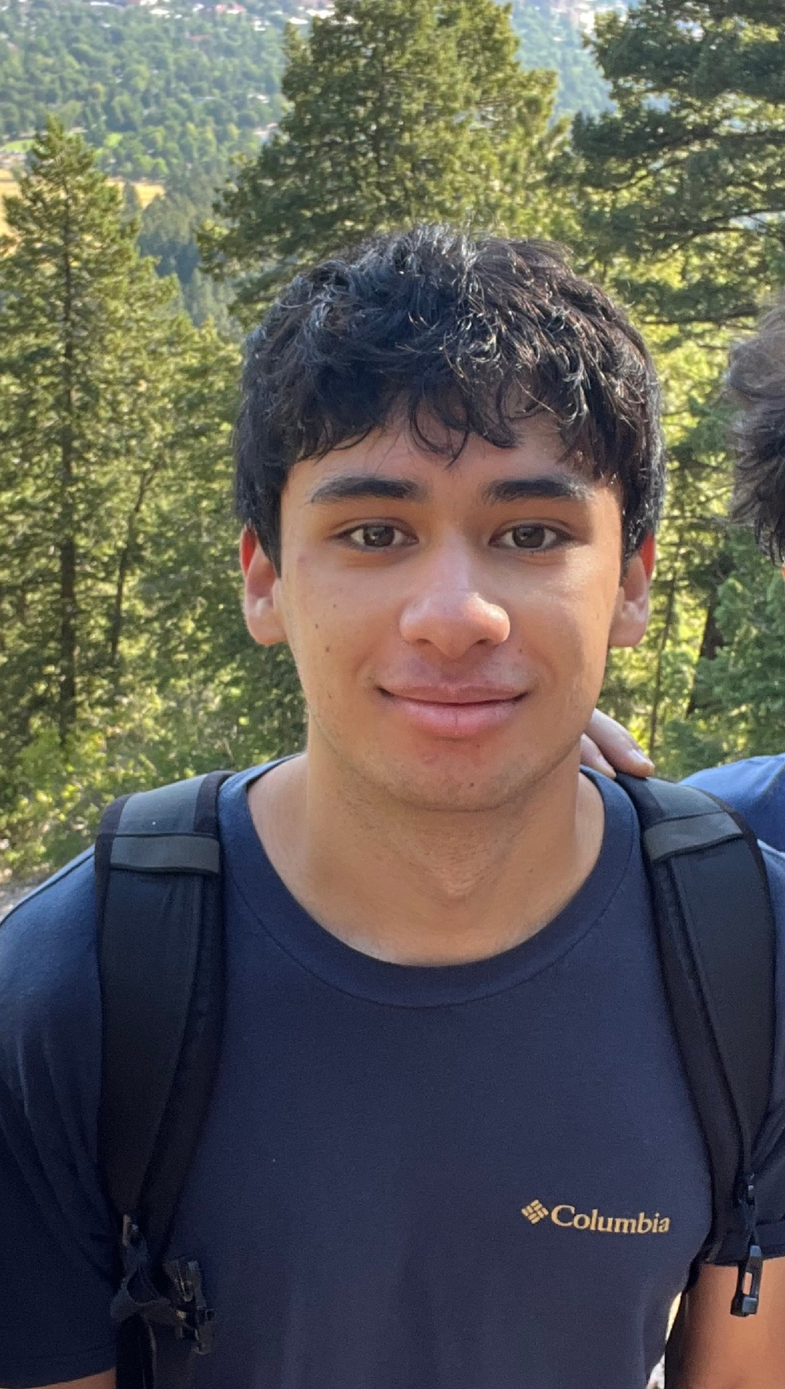
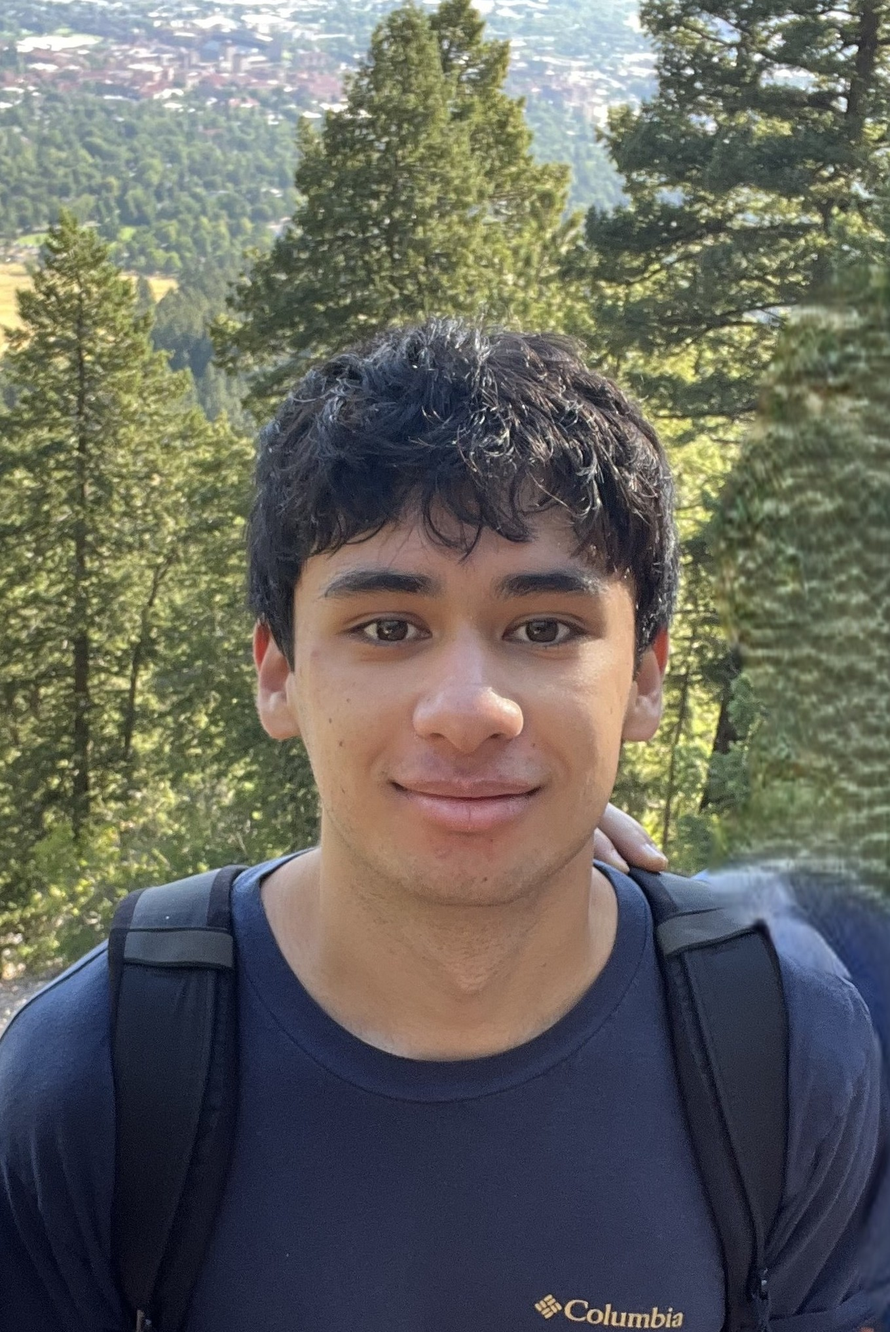
Added Eddie and Andre photos, and Eddie bio

diff --git a/categories.html b/categories.html
@@ -296,7 +296,7 @@
 
                     <div class="person-card">
                         <div class="person-card-header" data-target="modal1-andre-response">
-                            <div class="person-card-rect"style="background-image: url('person-andre.png');"></div>
+                            <div class="person-card-rect"style="background-image: url('assets/andre-photo.png');"></div>
                             <p class="person-name">Andre</p> 
                         </div>
                         
@@ -307,7 +307,7 @@
                     </div>
                     <div class="person-card">
                         <div class="person-card-header" data-target="modal1-jared-response">
-                            <div class="person-card-rect"></div>
+                            <div class="person-card-rect"style="background-image: url('assets/jared-photo.jpeg');"></div>
                             <p class="person-name">Jared</p> 
                         </div>
                         
@@ -318,7 +318,7 @@
                     </div>
                     <div class="person-card">
                         <div class="person-card-header" data-target="modal1-eddie-response">
-                            <div class="person-card-rect"style="background-image: url('person-eddie.png');"></div>
+                            <div class="person-card-rect"style="background-image: url('assets/eddie-photo.jpg');"></div>
                             <p class="person-name">Eddie</p> 
                         </div>
                         
@@ -362,7 +362,7 @@
 
                     <div class="person-card">
                         <div class="person-card-header" data-target="modal2-andre-response">
-                            <div class="person-card-rect"style="background-image: url('person-andre.png');"></div>
+                            <div class="person-card-rect"style="background-image: url('assets/andre-photo.png');"></div>
                             <p class="person-name">Andre</p> 
                         </div>
                         
@@ -373,7 +373,7 @@
                     </div>
                     <div class="person-card">
                         <div class="person-card-header" data-target="modal2-jared-response">
-                            <div class="person-card-rect"style="background-image: url('person-jared.png');"></div>
+                            <div class="person-card-rect"style="background-image: url('assets/jared-photo.jpeg');"></div>
                             <p class="person-name">Jared</p> 
                         </div>
                         
@@ -384,7 +384,7 @@
                     </div>
                     <div class="person-card">
                         <div class="person-card-header" data-target="modal2-eddie-response">
-                            <div class="person-card-rect"style="background-image: url('person-eddie.png');"></div>
+                            <div class="person-card-rect"style="background-image: url('assets/eddie-photo.jpg');"></div>
                             <p class="person-name">Eddie</p> 
                         </div>
                         
@@ -428,7 +428,7 @@
 
                     <div class="person-card">
                         <div class="person-card-header" data-target="modal3-andre-response">
-                            <div class="person-card-rect" style="background-image: url('person-andre.png');"></div>
+                            <div class="person-card-rect" style="background-image: url('assets/andre-photo.png');"></div>
                             <p class="person-name">Andre</p> 
                         </div>
                         
@@ -439,7 +439,7 @@
                     </div>
                     <div class="person-card">
                         <div class="person-card-header" data-target="modal3-jared-response">
-                            <div class="person-card-rect" style="background-image: url('person-jared.png');"></div>
+                            <div class="person-card-rect" style="background-image: url('assets/jared-photo.jpeg');"></div>
                             <p class="person-name">Jared</p> 
                         </div>
                         
@@ -450,7 +450,7 @@
                     </div>
                     <div class="person-card">
                         <div class="person-card-header" data-target="modal3-eddie-response">
-                            <div class="person-card-rect" style="background-image: url('person-eddie.png');"></div>
+                            <div class="person-card-rect" style="background-image: url('assets/eddie-photo.jpg');"></div>
                             <p class="person-name">Eddie</p> 
                         </div>
                         
@@ -495,7 +495,7 @@
 
                     <div class="person-card">
                         <div class="person-card-header" data-target="modal4-andre-response">
-                            <div class="person-card-rect" style="background-image: url('person-andre.png');"></div>
+                            <div class="person-card-rect" style="background-image: url('assets/andre-photo.png');"></div>
                             <p class="person-name">Andre</p> 
                         </div>
                         
@@ -517,7 +517,7 @@
                     </div>
                     <div class="person-card">
                         <div class="person-card-header" data-target="modal4-eddie-response">
-                            <div class="person-card-rect" style="background-image: url('person-eddie.png');"></div>
+                            <div class="person-card-rect" style="background-image: url('assets/eddie-photo.jpg');"></div>
                             <p class="person-name">Eddie</p> 
                         </div>
                         
@@ -561,7 +561,7 @@
 
                     <div class="person-card">
                         <div class="person-card-header" data-target="modal5-andre-response">
-                            <div class="person-card-rect" style="background-image: url('person-andre.png');"></div>
+                            <div class="person-card-rect" style="background-image: url('assets/andre-photo.png');"></div>
                             <p class="person-name">Andre</p> 
                         </div>
                         
@@ -572,7 +572,7 @@
                     </div>
                     <div class="person-card">
                         <div class="person-card-header" data-target="modal5-jared-response">
-                            <div class="person-card-rect" style="background-image: url('person-jared.png');"></div>
+                            <div class="person-card-rect" style="background-image: url('assets/jared-photo.jpeg');"></div>
                             <p class="person-name">Jared</p> 
                         </div>
                         
@@ -583,7 +583,7 @@
                     </div>
                     <div class="person-card">
                         <div class="person-card-header" data-target="modal5-eddie-response">
-                            <div class="person-card-rect" style="background-image: url('person-eddie.png');"></div>
+                            <div class="person-card-rect" style="background-image: url('assets/eddie-photo.jpg');"></div>
                             <p class="person-name">Eddie</p> 
                         </div>
                         
@@ -629,7 +629,7 @@
 
                     <div class="person-card">
                         <div class="person-card-header" data-target="modal6-andre-response">
-                            <div class="person-card-rect" style="background-image: url('person-andre.png');"></div>
+                            <div class="person-card-rect" style="background-image: url('assets/andre-photo.png');"></div>
                             <p class="person-name">Andre</p> 
                         </div>
                         
@@ -640,7 +640,7 @@
                     </div>
                     <div class="person-card">
                         <div class="person-card-header" data-target="modal6-jared-response">
-                            <div class="person-card-rect" style="background-image: url('person-jared.png');"></div>
+                            <div class="person-card-rect" style="background-image: url('assets/jared-photo.jpeg');"></div>
                             <p class="person-name">Jared</p> 
                         </div>
                         
@@ -651,7 +651,7 @@
                     </div>
                     <div class="person-card">
                         <div class="person-card-header" data-target="modal6-eddie-response">
-                            <div class="person-card-rect" style="background-image: url('person-eddie.png');"></div>
+                            <div class="person-card-rect" style="background-image: url('assets/eddie-photo.jpg');"></div>
                             <p class="person-name">Eddie</p> 
                         </div>
                         
@@ -695,7 +695,7 @@
 
                     <div class="person-card">
                         <div class="person-card-header" data-target="modal7-andre-response">
-                            <div class="person-card-rect" style="background-image: url('person-andre.png');"></div>
+                            <div class="person-card-rect" style="background-image: url('assets/andre-photo.png');"></div>
                             <p class="person-name">Andre</p> 
                         </div>
                         
@@ -706,7 +706,7 @@
                     </div>
                     <div class="person-card">
                         <div class="person-card-header" data-target="modal7-jared-response">
-                            <div class="person-card-rect" style="background-image: url('person-jared.png');"></div>
+                            <div class="person-card-rect" style="background-image: url('assets/jared-photo.jpeg');"></div>
                             <p class="person-name">Jared</p> 
                         </div>
                         
@@ -717,7 +717,7 @@
                     </div>
                     <div class="person-card">
                         <div class="person-card-header" data-target="modal7-eddie-response">
-                            <div class="person-card-rect" style="background-image: url('person-eddie.png');"></div>
+                            <div class="person-card-rect" style="background-image: url('assets/eddie-photo.jpg');"></div>
                             <p class="person-name">Eddie</p> 
                         </div>
                         
@@ -761,7 +761,7 @@
 
                     <div class="person-card">
                         <div class="person-card-header" data-target="modal8-andre-response">
-                            <div class="person-card-rect" style="background-image: url('person-andre.png');"></div>
+                            <div class="person-card-rect" style="background-image: url('assets/andre-photo.png');"></div>
                             <p class="person-name">Andre</p> 
                         </div>
                         
@@ -772,7 +772,7 @@
                     </div>
                     <div class="person-card">
                         <div class="person-card-header" data-target="modal8-jared-response">
-                            <div class="person-card-rect" style="background-image: url('person-jared.png');"></div>
+                            <div class="person-card-rect" style="background-image: url('assets/jared-photo.jpeg');"></div>
                             <p class="person-name">Jared</p> 
                         </div>
                         
@@ -783,7 +783,7 @@
                     </div>
                     <div class="person-card">
                         <div class="person-card-header" data-target="modal8-eddie-response">
-                            <div class="person-card-rect" style="background-image: url('person-eddie.png');"></div>
+                            <div class="person-card-rect" style="background-image: url('assets/eddie-photo.jpg');"></div>
                             <p class="person-name">Eddie</p> 
                         </div>
                         

diff --git a/index.html b/index.html
@@ -199,6 +199,8 @@
 
                 <div class="team-member">
                     <div class="member-photo">
+                        <img src="assets/andre-photo.png">
+
                     </div>
                     <div class="member-name">Andre</div>
                     <div class="member-description">
@@ -210,6 +212,7 @@
 
                 <div class="team-member">
                     <div class="member-photo">
+                        <img src="assets/jared-photo.jpeg">
                     </div>
                     <div class="member-name">Jared</div>
                     <div class="member-description">
@@ -221,12 +224,12 @@
 
                 <div class="team-member">
                     <div class="member-photo">
+                        <img src="assets/eddie-photo.jpg">
                     </div>
                     <div class="member-name">Eddie</div>
                     <div class="member-description">
-                        Lorem ipsum dolor sit amet, consectetur adipiscing elit. Mauris 
-                        dictum nisi sed justo tempor dignissim. Aliquam erat volutpat. Fusce consequat 
-                        sed nam.
+                        Eddie is a Junior pursuing a degree in Computer Science with a minor in Business. 
+                        Eddie enjoys volleyball, basketball, tennis, guitar, and the outdoors.
                     </div>
                 </div>
             </div>
